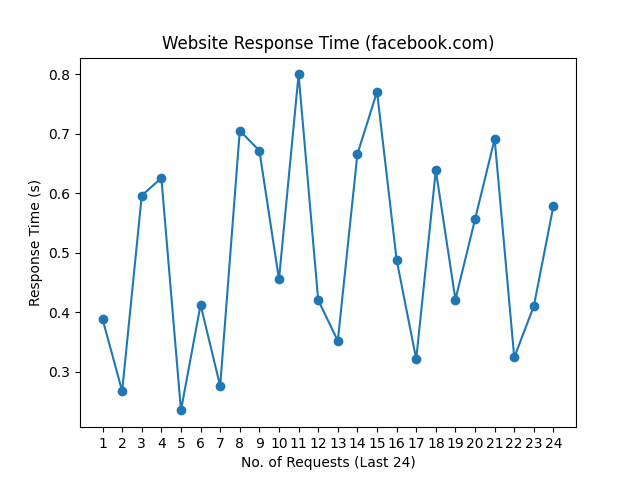
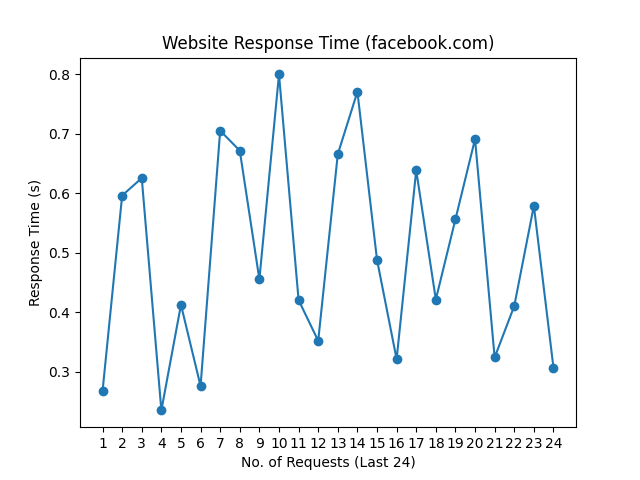
update README.md, history and graph

Changed region(s): [[0.1562, 0.125, 0.875, 0.875]]

diff --git a/README.md b/README.md
@@ -1,10 +1,10 @@
 # Web Monitoring
 
-Last Checked: 25/08/2023 08:58
+Last Checked: 26/08/2023 08:56
 
 | Website | Response Time (s) | Status | Avg Uptime (%) |
 |---------|-------------------|--------|----------------|
 | www.thiswebsiteisdown.net | 0 <br> <img src="graph/thiswebsiteisdown.net.png" alt="Graph" width="200" height="200">  | ❌ Down | 0.00 |
-| www.netflix.com | 0.906346 <br> <img src="graph/netflix.com.png" alt="Graph" width="200" height="200">  | ✅ Up | 100.00 |
-| www.google.com | 0.130483 <br> <img src="graph/google.com.png" alt="Graph" width="200" height="200">  | ✅ Up | 100.00 |
-| www.facebook.com | 0.578928 <br> <img src="graph/facebook.com.png" alt="Graph" width="200" height="200">  | ✅ Up | 100.00 |
+| www.netflix.com | 1.507033 <br> <img src="graph/netflix.com.png" alt="Graph" width="200" height="200">  | ✅ Up | 100.00 |
+| www.google.com | 0.091177 <br> <img src="graph/google.com.png" alt="Graph" width="200" height="200">  | ✅ Up | 100.00 |
+| www.facebook.com | 0.307237 <br> <img src="graph/facebook.com.png" alt="Graph" width="200" height="200">  | ✅ Up | 100.00 |
